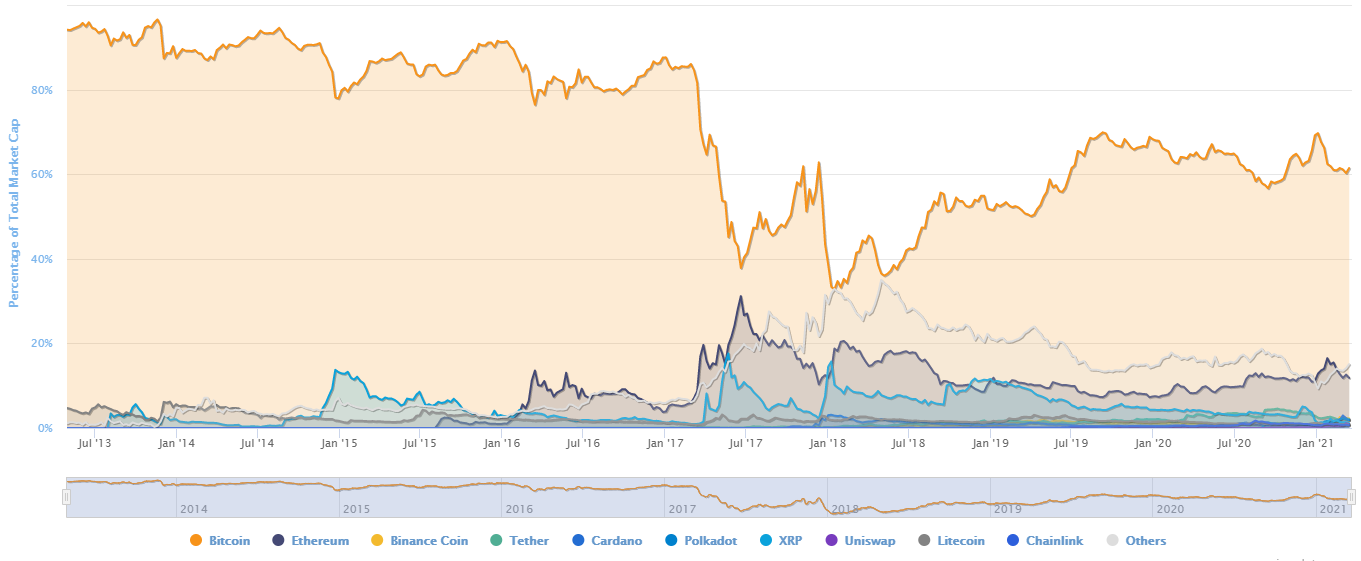
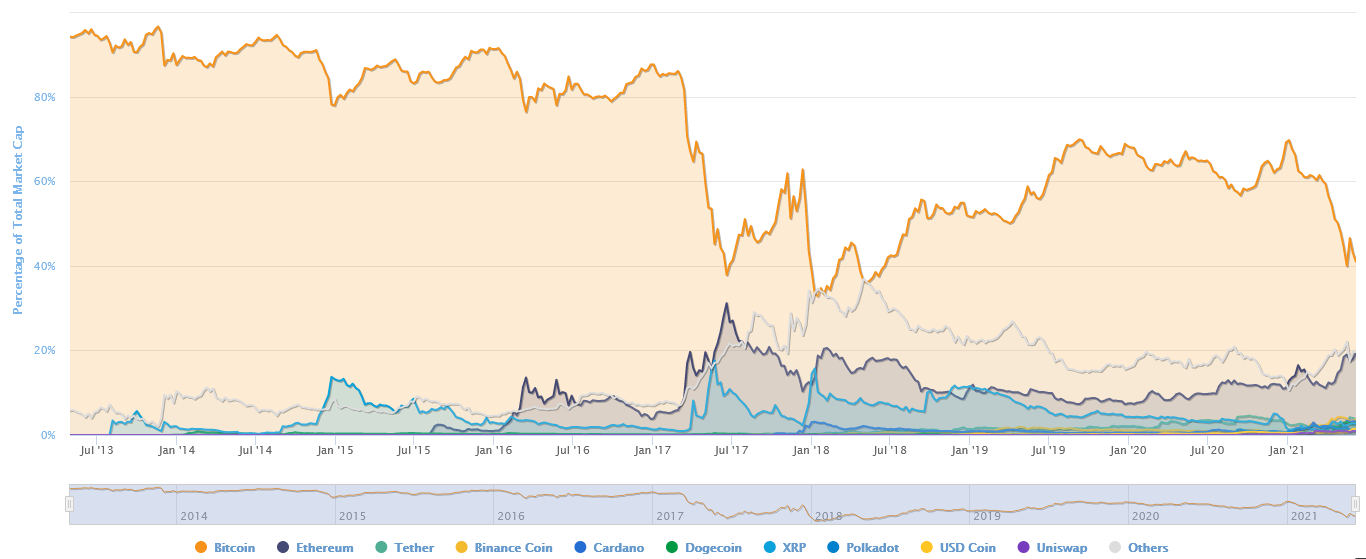
Final edits

diff --git a/manuscript/201-Arguments-against-Bitcoin.md b/manuscript/201-Arguments-against-Bitcoin.md
@@ -16,17 +16,17 @@ View bitcoin as a long term investment, it has been the best performing store of
 
 There is of course no guarantee that this performance will continue forever.
 
-At the time of writing (April 2021) bitcoin was in a bull run. Meaning the price appreciated for a period of weeks and months with little setbacks in between. The last bull run started in 2017 and ended at the beginning of 2018. Since then the price moved sideways - as it is called in traders terms, meaning no particular large up or downwards movement in price. 
+At the time of writing bitcoin was in a bull run, which started in the last quarter of 2020. Meaning the price appreciated for a period of weeks and months with little setbacks in between. In May 2021 a significant drop occured, which many interpreted as a healthy setback in an overheated market. The last bull run started in 2017 and ended at the beginning of 2018. Since then the price moved sideways - as it is called in traders terms, meaning no particular large up or downwards movement in price. 
 
-![Bitcoin price development](resources/_Bitcoin-price.png)[^^C2-2]
-[Source](https://www.coingecko.com/en/coins/bitcoin/usd), Mar 19, 2021
+![Bitcoin price development](_Bitcoin-price.png)[^^C2-2]
+[Source](https://www.coingecko.com/en/coins/bitcoin/usd), June 7, 2021
 
-The bitcoin price development is following the halving cycles. As you have read in chapter **....reference HALVING ......**, approximately every 4 years the amount of minted bitcoin is reduced by 50%. This means that the growth of available bitcoin on the market is shrinking. Even if the demand for bitcoin only remains at the same level, the price will increase. 
+The bitcoin price development is following the halving cycles. Approximately every 4 years the amount of minted bitcoin is reduced by 50%. This means that the growth of available bitcoin on the market is shrinking. Even if the demand for bitcoin only remains at the same level, the price will increase. 
 
 ### Digital Scarcity
-As laid out in **... reference Chapter....**, the total bitcoin supply is limited to 21 million, 18 million of which are already on the market. Every four years (exactly 210,000 blocks), the amount of bitcoin that are minted is reduced by half. Currently, the mining process generates 6.25 bitcoin every 10 minutes, which is 900 bitcoin per day and 328,500 per year. From 2024, there will be only 450 bitcoin minted per day, as only 3.125 bitcoin will be issued for each block generated. This means that the amount available every day decreases and supply becomes scarcer. If interest increases at the same time, the price rises.
+The total bitcoin supply is limited to 21 million, 18 million of which are already on the market. Every four years (exactly 210,000 blocks), the amount of bitcoin that are minted is reduced by half. Currently, the mining process generates 6.25 bitcoin every 10 minutes, which is 900 bitcoin per day and 328,500 per year. From 2024, there will be only 450 bitcoin minted per day, as only 3.125 bitcoin will be issued for each block generated. This means that the amount available every day decreases and supply becomes scarcer. If interest increases at the same time, the price rises.
 
-As of April 2021, around 50 million USD (number of daily minted bitcoin * price) have to flow into the Bitcoin market every day to keep the current price of 56,000 USD stable. Whenever the price drops, fewer bitcoin were exchanged than were available on that day and vice versa. 
+As of May 2021, around 36 million USD (number of daily minted bitcoin * price) have to flow into the Bitcoin market every day to keep the current price of 40,000 USD stable. Whenever the price drops, fewer bitcoin were exchanged than were available on that day and vice versa. 
 
 The dates of these halvings are annotated in the chart below. The price follows similar patterns before and after each halving. In this chart the top of bitcoin is predicted to be in September 2021, after which the price is expected to fall again as you can see on the "Low" marked grid-lines. Of course, this is just a prediction based on a few historic events and numbers, we cannot take this as a given occurrence in the future. 
 
@@ -36,7 +36,7 @@ The dates of these halvings are annotated in the chart below. The price follows 
 Since Bitcoin's launch in 2009, there have been several price crashes. Be prepared that this will happen again. The question is how low will it go because on a logarithmic scale you can see that, over time, bitcoin has only gained value in the long term.
 
 ![Bitcoin price logarithmic scale](resources/_Bitcoin-price-log.png)
-[Source](https://www.coingecko.com/en/coins/bitcoin/usd), Mar 19, 2021
+[Source](https://www.coingecko.com/en/coins/bitcoin/usd), June 7, 2021
 
 >Don't try to outsmart the market, don't trade. Just hold your bitcoin. At least for five years. 
 
@@ -63,18 +63,18 @@ _I can't buy one bitcoin, it's too expensive._
 
 That's ok, you don't have to. There is no minimum budget you need to use bitcoin. A bitcoin is divisible into extremely small units, much smaller than a cent. You can buy a fraction of a bitcoin and start to play around with 20 USD or less.
 
-You can also earn bitcoin, more about that later **(in chapter....)**
+You can also earn bitcoin, more about that in chapter 10.
 
 ### Bitcoin will fail like the first internet companies
 
 _Bitcoin is new technology. It is the first of its kind. When we compare this with the first computer companies in the 1980s or the internet platforms of the dot com boom, almost none survived. Bitcoin was the first blockchain on the market, it might go the same route._
     
-Bitcoin has been the world's most widely used cryptocurrency since its origin in 2009. I agree, there are no assurances that it will continue that way. The market dominance of Bitcoin was over 80% until 2017. Meaning of all the thousands of  cryptocurrencies on the market, over 80% of all investments were held in Bitcoin. This changed in 2017-18 while there was a "war" between different ideas around how Bitcoin as a technology should go forward. The block-size debate ended with a hard-fork, where the Bitcoin blockchain split into two forks: Bitcoin (BTC) and Bitcoin Cash (BCH). At that time, other crypto projects like Ethereum gained importance. Four years later, Bitcoin is with over 60% the by far most dominant cryptocurrency on the market again - BCH has steadily declined into insignificance compared to BTC. 
+Bitcoin has been the world's most widely used cryptocurrency since its origin in 2009. I agree, there are no assurances that it will continue that way. The market dominance of Bitcoin was over 80% until 2017. Meaning of all the thousands of cryptocurrencies on the market, over 80% of all investments were held in Bitcoin. This changed in 2017-18 while there was a "war" between different ideas around how Bitcoin as a technology should go forward. The block-size debate ended with a hard-fork, where the Bitcoin blockchain split into two forks: Bitcoin (BTC) and Bitcoin Cash (BCH). At that time, other crypto projects like Ethereum gained importance. Four years later, BCH has steadily declined into insignificance compared to BTC. Bitcoin held its dominance with over 60% until the current bull run, where it dropped to 40% by the time of writing. A bull run results in more mainstream attention, which leads to many uninformed media articles and when certain billionaires add rumors Altcoins are lifted into the focus. 
 
 ![Percentage of total market capitalization](resources/_Market-dominance.png)
-[Source](https://coinmarketcap.com/charts/)
+[Source](https://coinmarketcap.com/charts/) June 7, 2021
 
-This resurgence of Bitcoin's dominance after the critical time of the hard-fork was a sign of strength for many experts like macro-economist Lyn Alden and US-investor Michael Saylor, which led them to believe in the future potential of Bitcoin as the winner-take-all cryptocurrency. And even if there were technological innovations in Altcoins that would propel them in front of Bitcoin, there is no doubt that the Bitcoin developers would not implement them too.
+The resurgence of Bitcoin's dominance after the critical time of the hard-fork in 2017 was a sign of strength for many experts like macro-economist Lyn Alden and US-investor Michael Saylor, which led them to believe in the future potential of Bitcoin as the winner-take-all cryptocurrency. And even if there were technological innovations in Altcoins that would propel them in front of Bitcoin, there is no doubt that the Bitcoin developers would not implement them too.
 
 ### Bitcoin has failed
 
@@ -99,7 +99,7 @@ Want to know more about Bitcoin in Nigeria, open your browser and go to: anita.l
 ### Bitcoin's transaction limit
 _The Bitcoin network is only capable to process seven transactions per second. That is far too little for the demand of a global payment network. If all people were using Bitcoin, the network would be overburdened.__
 
-The Lightning Network has been in development since the beginning of 2018. This is a protocol that is located one level above the Bitcoin blockchain - **See chapter "Internet protocol stack" on page...**. The Lightning Network is expected to handle thousands of micro payments per second in a few years time. The Bitcoin blockchain will be used as the base settlement layer for large transactions, while small payments for a coffee, for instance, will take place on the Lightning Network. As user, you do not need to know how this works. Most of us also do not know how Netflix or sending an email works and yet we do it everyday.
+The Lightning Network has been in development since the beginning of 2018. This is a protocol that is located one level above the Bitcoin blockchain. The Lightning Network is expected to handle thousands of micro payments per second in a few years time. The Bitcoin blockchain will be used as the base settlement layer for large transactions, while small payments for a coffee, for instance, will take place on the Lightning Network. As user, you do not need to know how this works. Most of us also do not know how Netflix or sending an email works and yet we do it everyday.
 
 ### Mining pool concentration
 A mining pool is a structure that "pools" together computational resources provided by connected hashers (pool contributors) in order to increase the likelihood and frequency of finding a new block, which results in smoother pay-outs. 

diff --git a/manuscript/133-How-are-Bitcoin-created.md b/manuscript/133-How-are-Bitcoin-created.md
@@ -2,6 +2,6 @@
 
 We were talking about protocols and mathematical rules that regulate how Bitcoin is working. A set of rules define how bitcoin are created and circulated. These rules can only be changed in a majority consensus of all parties involved in the Bitcoin network. Individuals, institutions or governments cannot change the Bitcoin rules unilaterally.
 
-In our current monetary system and currencies, the creation of money is in the hands of central bankers (as we discussed on page **INSERT PAGE NUMBER HERE**). They are steering and controlling the output of banknotes and coins as well as the amount of credit that commercial banks may lend out, determining the interest rate and thus influencing the value of the units of money.
+In our current monetary system and currencies, the creation of money is in the hands of central bankers. They are steering and controlling the output of banknotes and coins as well as the amount of credit that commercial banks may lend out, determining the interest rate and thus influencing the value of the units of money.
 
 Bitcoin are created in a process called mining in a decentralized manner, out of the hands of people with power. The term "mining" has been chosen because, similar to the extraction of gold, labor and energy input is required for the creation of bitcoin.

diff --git a/manuscript/134-What-happens-bitcoin-mining.md b/manuscript/134-What-happens-bitcoin-mining.md
@@ -24,7 +24,7 @@ The payee, in fact their full node, receives the block and validates it again an
 
 The time-span that your transaction needs to be settled depends on the transaction fee you are selecting and paying. The higher the fee, the faster the miners will insert your transaction in a block, because they earn these fees in addition to the block reward of 6.25 bitcoin.
 
-Why this mathematical puzzle? Proof-of-work is resource-intensive as computers require large amounts of power. This fact leads to criticism of Bitcoin in light of the climate changes that we humans have created in recent decades. Chapter [11.3] [Bitcoin's Energy Consumption] deals with this question in more detail.
+Why this mathematical puzzle? Proof-of-work is resource-intensive as computers require large amounts of power. This fact leads to criticism of Bitcoin in light of the climate changes that we humans have created in recent decades. Chapter "Bitcoin's ecological footprint" deals with this question in more detail.
 
 Why do we need to spend so much electricity? The answer is: security and decentralization. The need to put effort and energy into mining protects the data in the blockchain from manipulation and makes it immutable and uncensorable. No state nor organization can change the blockchain. 
 

diff --git a/manuscript/135-21-million.md b/manuscript/135-21-million.md
@@ -15,7 +15,7 @@ Satoshi Nakamoto coded these halvings into the Bitcoin Core software. The output
 This algorithm tends to zero such that there will be a maximum of 21 million bitcoin. There are currently around 18 million in circulation. In 2140 all 21 million bitcoin will have been generated. Mining will continue and the miners will be rewarded solely with transaction fees. By that point, it is expected that Bitcoin as a network will have such high adoption that transaction fees alone will adequately facilitate fair reward for miners.
 
 ![Total bitcoin supply over time](resources/_Total_bitcoins_over_time.png)
-[Source: Insti](https://en.bitcoin.it/wiki/File:Total_bitcoins_over_time_graph.png)
+[Source: Insti](https://commons.wikimedia.org/wiki/File:Total_bitcoins_over_time.png)
 
 ### Why 21 million?
 Why did Satoshi Nakamoto choose 21 million for the supply cap? There are many theories, but here is Satoshi's answer:
